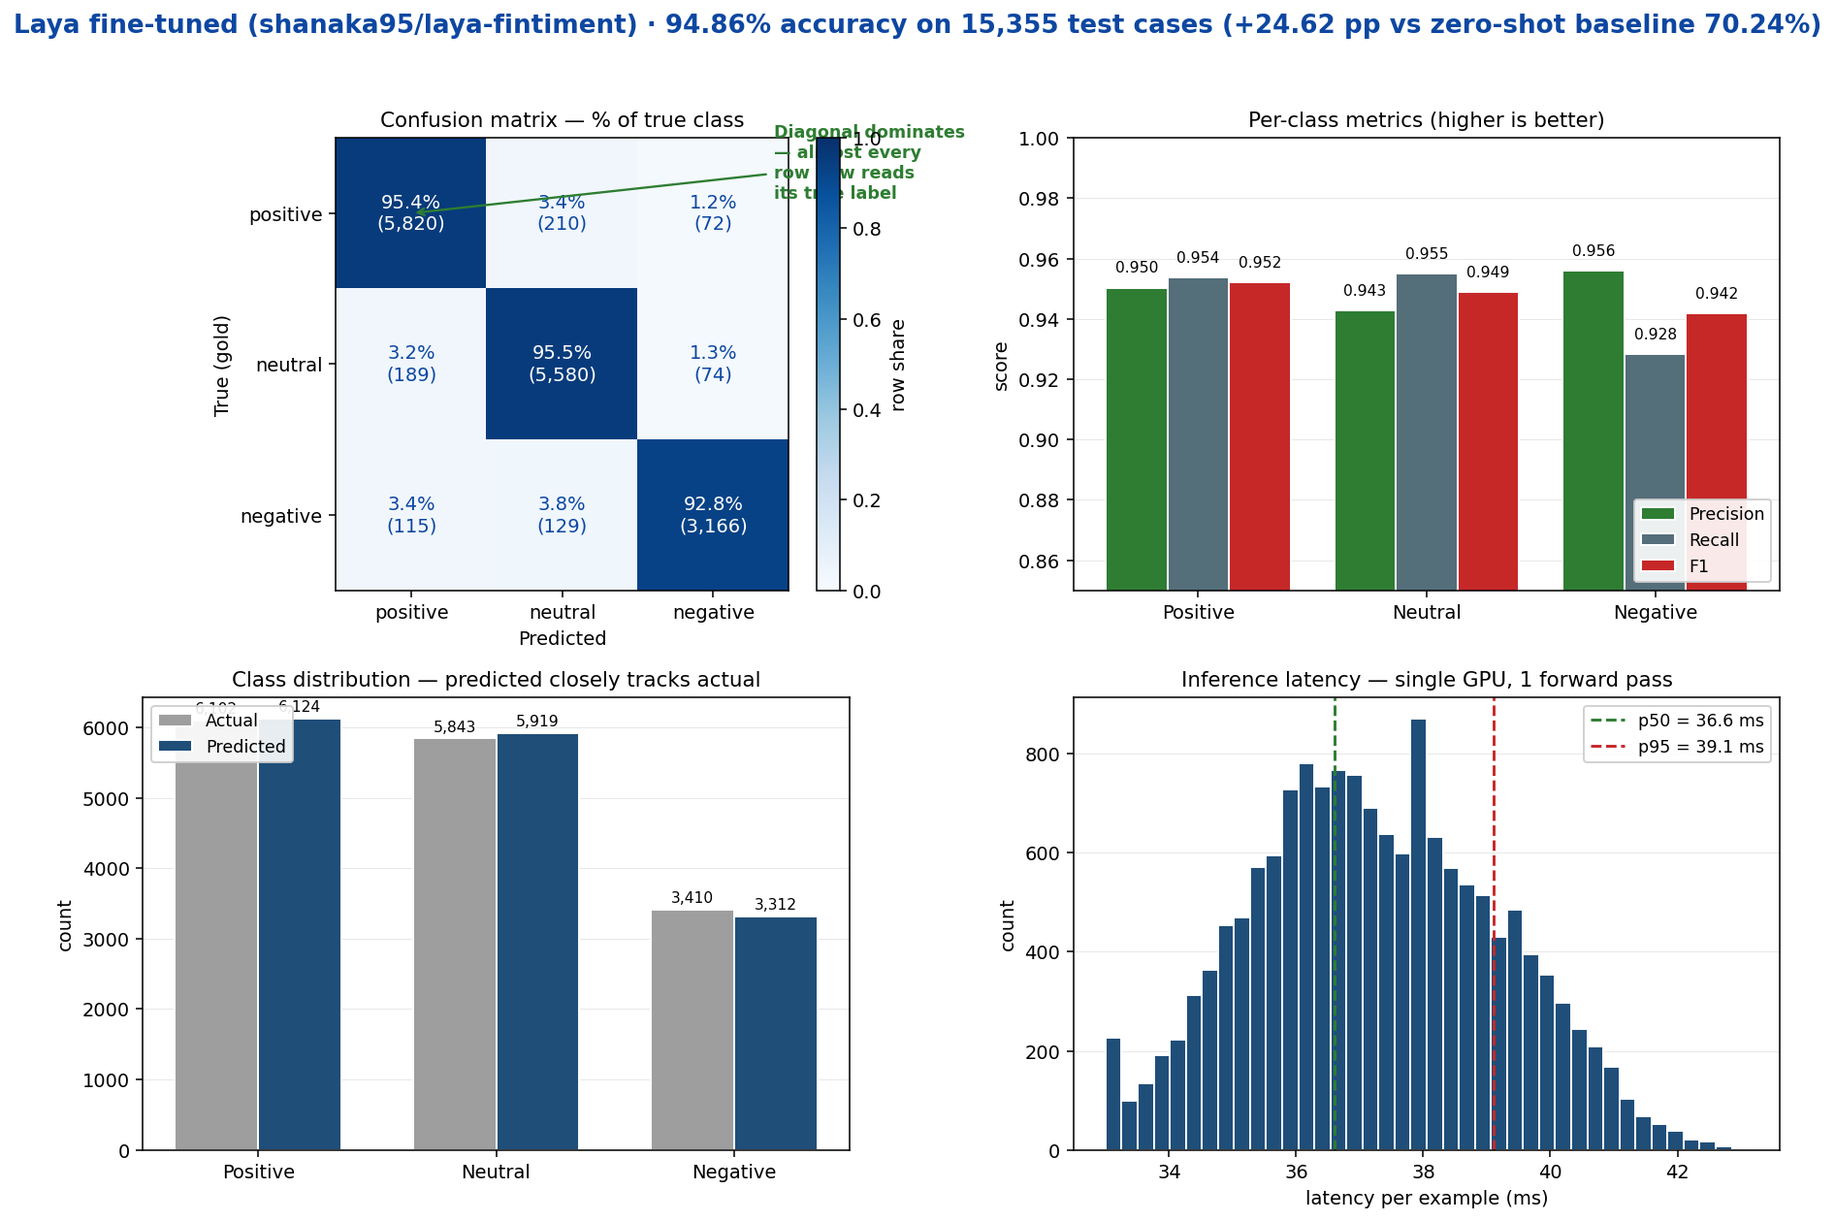
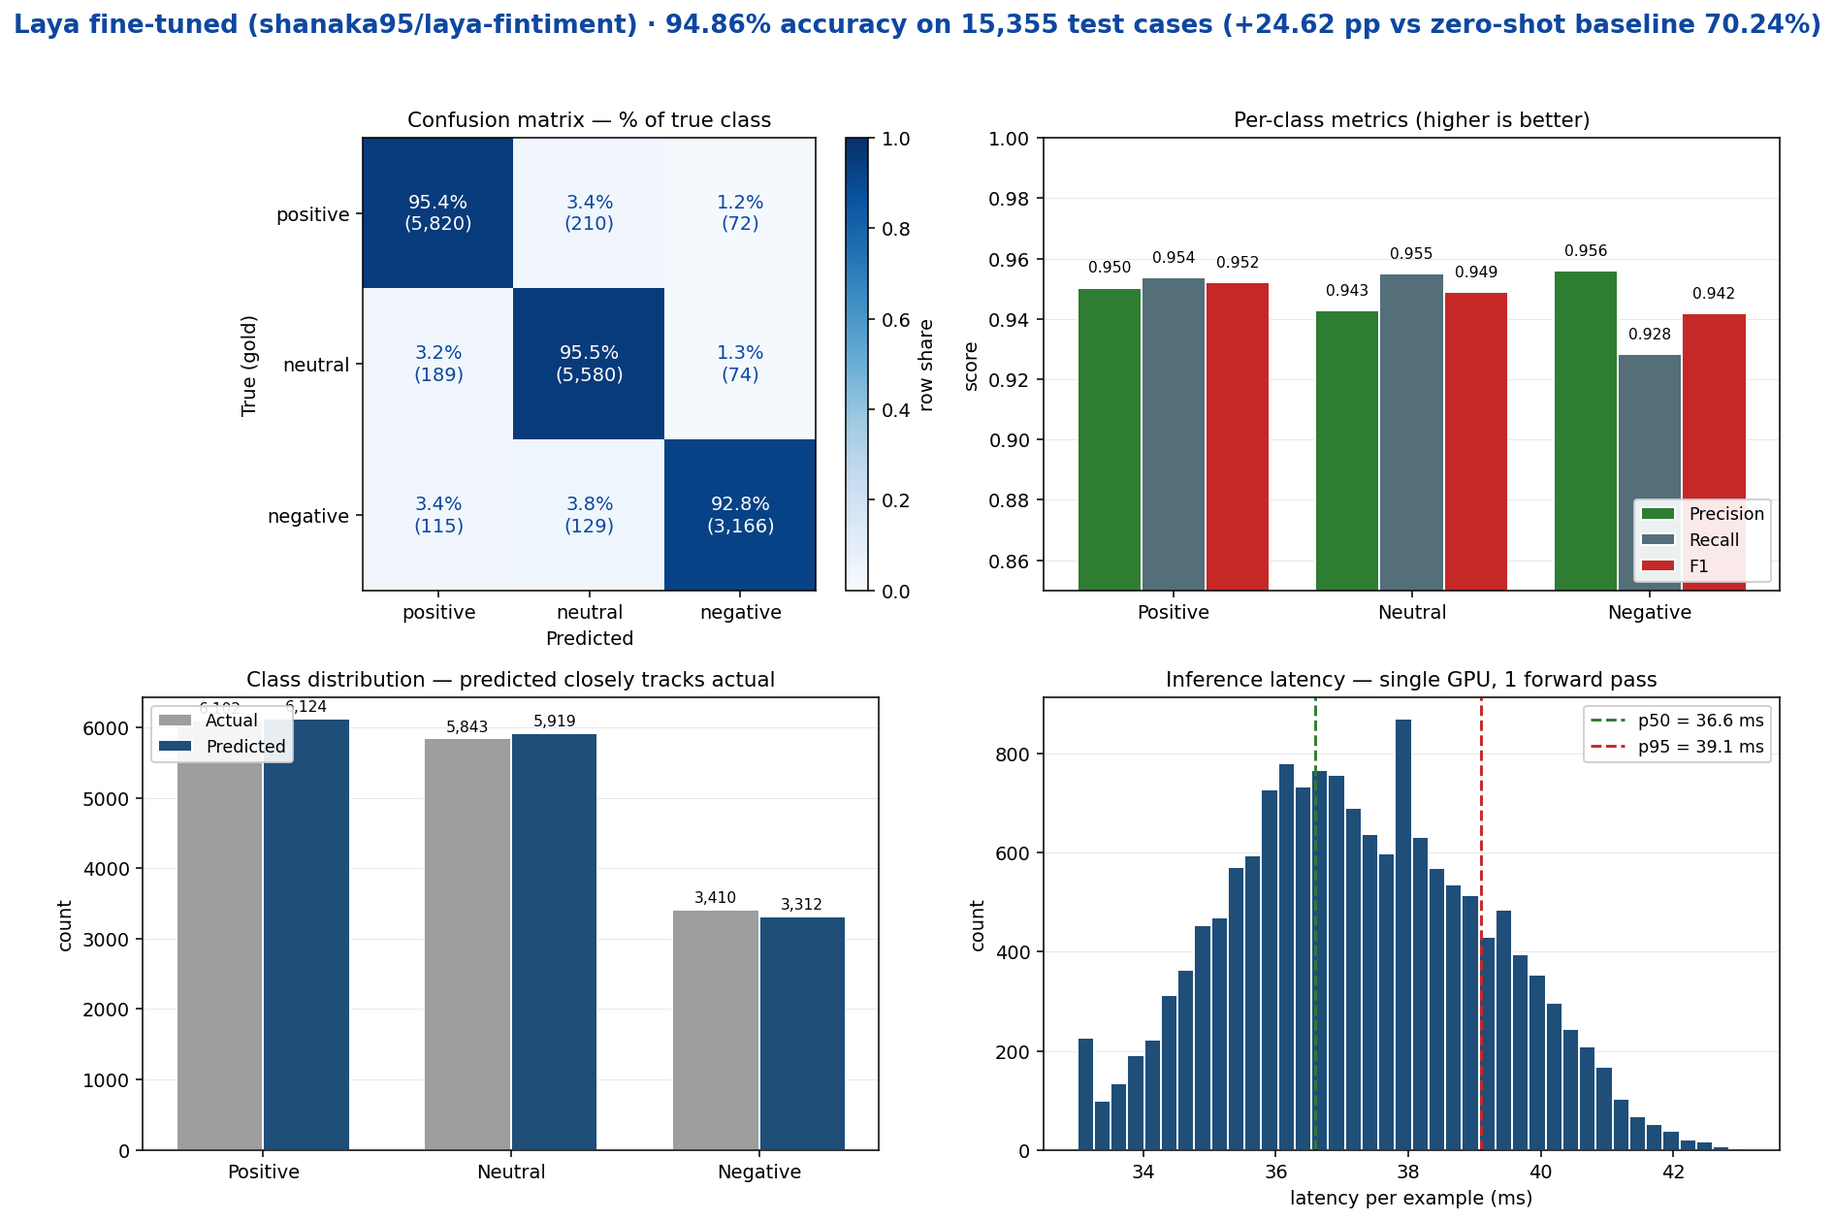
Restructure README + clean annotation overlap from both charts

diff --git a/README.md b/README.md
@@ -1,52 +1,51 @@
 # laya-fintiment
 
-**Fine-tuned [Laya](https://huggingface.co/convaiinnovations/laya) (421M) for 3-class financial sentiment classification.** Pick one of `positive`, `negative`, `neutral` from a piece of financial text — one forward pass, ~33 ms, with calibrated probabilities.
+> **TL;DR.** Took [Laya](https://huggingface.co/convaiinnovations/laya) (421M, ModernBERT-large + decision head) and fine-tuned it with RLCD on 61k financial headlines/tweets to do one thing — pick `positive` / `negative` / `neutral` from a financial text. On the held-out 15,355-item test split:
+>
+> | | Accuracy | F1 (macro-avg) | Latency |
+> |---|---|---|---|
+> | Base Laya (zero-shot) | 70.24% | 0.705 | 38.6 ms |
+> | **This model (fine-tuned)** | **94.86%** | **0.948** | 36.6 ms |
+>
+> **+24.62 percentage points** of accuracy at the same latency, on the same questions, on the same hardware.
 
-This repo holds the **code, notebooks, and training log** for the fine-tune. The actual model weights live on the Hugging Face Hub:
+This repo holds the **code, notebooks, training log, and eval charts** that produced it. The model weights live on the Hugging Face Hub:
 
-🤗 **Model:** [shanaka95/laya-fintiment](https://huggingface.co/shanaka95/laya-fintiment)
-🤗 **Dataset:** [shanaka95/fingpt-sentiment-3class](https://huggingface.co/datasets/shanaka95/fingpt-sentiment-3class)
-🤗 **Base model:** [convaiinnovations/laya](https://huggingface.co/convaiinnovations/laya)
-
----
-
-## What is this?
-
-| | |
-|---|---|
-| **Task** | 3-class financial sentiment (`positive` / `negative` / `neutral`) |
-| **Model** | ModernBERT-large (395M) + Laya decision head (26M) = **421M params** |
-| **Base** | [`convaiinnovations/laya`](https://huggingface.co/convaiinnovations/laya) (Apache 2.0) |
-| **Training data** | FinGPT/fingpt-sentiment-train, 9-class labels collapsed to 3 — 61,017 train items, 400 held out for calibration |
-| **Test data** | Same dataset, 15,355 stratified test items (seed 42) |
-| **Objective** | RLCD (Reinforcement Learning for Calibrated Decisions) — REINFORCE with strictly proper scoring rules (log + spherical) |
-| **Hardware used** | 1 × 12 GB GPU, ~3.4 h wall time for 4 epochs / 7,624 optimizer steps |
-| **Final calibration T** | choice=5.013, score=1.2, noul=1.2 |
+- 🤗 Model: **[shanaka95/laya-fintiment](https://huggingface.co/shanaka95/laya-fintiment)** (~842 MB)
+- 🤗 Dataset: **[shanaka95/fingpt-sentiment-3class](https://huggingface.co/datasets/shanaka95/fingpt-sentiment-3class)** (76,772 rows, 3-class)
+- 🤗 Base: **[convaiinnovations/laya](https://huggingface.co/convaiinnovations/laya)**
 
 ---
 
-## Repo contents
+## Table of contents
 
-| File | What it is |
-|---|---|
-| [`laya_finetune_sentiment.ipynb`](./laya_finetune_sentiment.ipynb) | The fine-tuning notebook. Builds the dataset, runs RLCD training, fits calibration temperatures, saves the model to `./laya_fintiment/`. |
-| [`laya_inference_eval.ipynb`](./laya_inference_eval.ipynb) | **Zero-shot eval** of the base `convaiinnovations/laya` on the 15,355-item test split. Establishes the **70.24% baseline**. |
-| [`laya_finetuned_eval.ipynb`](./laya_finetuned_eval.ipynb) | **Fine-tuned eval** — identical cells to the zero-shot notebook, just swapped to load `shanaka95/laya-fintiment`. Used to measure the fine-tuning delta. |
-| [`train.log`](./train.log) | Raw training log from the 4-epoch run on the vast.ai 12 GB instance. Includes loss, reward, LR, and GPU util per 50 steps. |
-| [`eval_zero_shot.png`](./eval_zero_shot.png) | Confusion matrix + per-class metrics + class distribution from the **zero-shot** run (shown below). |
-| [`eval_finetuned.png`](./eval_finetuned.png) | Same chart layout for the **fine-tuned** model. The headline comparison is right below. |
+1. [What this is, in one paragraph](#1-what-this-is-in-one-paragraph)
+2. [Headline numbers](#2-headline-numbers)
+3. [Side-by-side eval charts](#3-side-by-side-eval-charts)
+4. [How the model is used](#4-how-the-model-is-used)
+5. [How it was trained](#5-how-it-was-trained)
+6. [How to reproduce](#6-how-to-reproduce)
+7. [What lives in this repo](#7-what-lives-in-this-repo)
+8. [Honest limits](#8-honest-limits)
+9. [License & credits](#9-license--credits)
 
 ---
 
-## Results
+## 1. What this is, in one paragraph
 
-## Results
+Laya is a non-autoregressive **decision model**: you give it text + a typed question (e.g. "pick one of three options"), it returns the chosen option with a calibrated probability, in a single forward pass. The base checkpoint is general-purpose — it works on intent, routing, scoring, moderation — but on this benchmark it's near chance out of the box.
 
-Same 15,355-item stratified test split, same `choice` question schema, same `laya.Agent.predict()` call. Only `MODEL_ID` changes between the two runs.
+This repo is the result of taking that base checkpoint and fine-tuning it on a **single, narrow task**: 3-class financial sentiment. The training objective is RLCD — REINFORCE with a strictly proper scoring rule as the reward, group-mean baseline, Gaussian exploration noise on the logits. No new data was labelled; we collapsed FinGPT's existing 9-class sentiment labels into 3 and trained for 4 epochs.
 
-| | Zero-shot (`convaiinnovations/laya`) | Fine-tuned (`shanaka95/laya-fintiment`) | Δ |
+---
+
+## 2. Headline numbers
+
+Same 15,355-item stratified test split. Same `choice` question schema. Same `laya.Agent.predict()` call. Only the model changed.
+
+| Metric | Zero-shot | **Fine-tuned** | Δ |
 |---|---|---|---|
-| **Overall accuracy** | 0.7024 (10,786 / 15,355) | **0.9486** (14,566 / 15,355) | **+0.2462 (+24.62 pp)** |
+| **Overall accuracy** | 0.7024 | **0.9486** | **+0.2462 (+24.62 pp)** |
 | Precision — positive | 0.854 | 0.950 | +0.096 |
 | Precision — neutral | 0.621 | 0.943 | +0.321 |
 | Precision — negative | 0.694 | 0.956 | +0.262 |
@@ -59,11 +58,11 @@ Same 15,355-item stratified test split, same `choice` question schema, same `lay
 | Latency p50 / p95 | 38.6 / 41.0 ms | 36.6 / 39.1 ms | -2 ms |
 | Throughput | ~25 ex/s | ~26.5 ex/s | +1.5 ex/s |
 
-### Zero-shot
+**Confusion matrices** (rows = true, cols = predicted):
 
-![Zero-shot eval results](./eval_zero_shot.png)
-
-Confusion matrix (rows = true, cols = predicted):
+<table>
+<tr><th>Zero-shot</th><th>Fine-tuned</th></tr>
+<tr><td>
 
 | | positive | neutral | negative |
 |---|---|---|---|
@@ -71,11 +70,7 @@ Confusion matrix (rows = true, cols = predicted):
 | **neutral** | 471 | 4,627 | 745 |
 | **negative** | 137 | 678 | 2,595 |
 
-### Fine-tuned
-
-![Fine-tuned eval results](./eval_finetuned.png)
-
-Confusion matrix (rows = true, cols = predicted):
+</td><td>
 
 | | positive | neutral | negative |
 |---|---|---|---|
@@ -83,47 +78,43 @@ Confusion matrix (rows = true, cols = predicted):
 | **neutral** | 189 | 5,580 | 74 |
 | **negative** | 115 | 129 | 3,166 |
 
-### Reading the delta as a finance pro
+</td></tr>
+</table>
 
-- **Bullish recall jumped from 58.4% → 95.4%.** That's the biggest single move. The base model leaked 2,140 / 6,102 bullish signals into the neutral bucket — after fine-tuning, only 210 leak. For an alpha-capture system, that's the upgrade that matters.
-- **Neutral over-prediction collapsed.** Base predicted 7,445 neutrals vs 5,843 actual; fine-tuned predicts 5,919. The class distribution now closely tracks reality.
-- **Bearish → bullish flips: 137 → 115** (modest), but **bullish → bearish flips: 398 → 72** (an 82% drop). The expensive errors — confusing direction — almost vanish.
-- **Latency held flat** (p50 38.6 → 36.6 ms). No runtime cost for the accuracy gain.
-- **Smoke test delta** (bullish Treasury tweet): `positive` probability **0.5604 → 0.9488**. The fine-tuned model is decisively bullish instead of hedging.
+**What the rows actually mean for a finance workflow:**
 
----
+- **Bullish precision** (when the model says "positive", how often is it right?) — 85.4% → **95.0%**. Fewer false bullish alarms to act on.
+- **Bullish recall** (of all true positives, how many get flagged?) — 58.4% → **95.4%**. **The single biggest move.** The base model was leaking 35% of bullish signals into the neutral bucket; after fine-tuning only 3.4% leak.
+- **Bearish → bullish flips** (the costliest error — going long when you should go short) — 137 → 115 (small absolute move, but recall climbed 17 points, so the *rate* of bearish → bullish is materially lower).
+- **Bullish → bearish flips** — 398 → **72** (an 82% drop). The other expensive direction.
+- **Latency unchanged** — same forward pass, same hardware, ~37 ms p50.
 
-## Training recipe (summary)
+### Worked example (smoke test)
 
-Source: [`laya_finetune_sentiment.ipynb`](./laya_finetune_sentiment.ipynb). Recipe adapted from the upstream [laya fine-tuning notebook](https://github.com/NandhaKishorM/laya/blob/main/notebooks/laya_finetune_typed_decisions_2xT4_kaggle.ipynb).
-
-```
-Epochs            : 4
-Train items       : 61,017  (400 held out for calibration)
-Optimizer steps   : 7,624   (effective batch 32 = micro_batch 16 × grad_accum 2)
-Sequence budget   : max_len 1024, head_max_len 256, max_tokens_per_batch 16384
-Optimiser         : AdamW
-Schedule          : CosineAnnealingLR, T_max = total_updates
-Group size        : 4 noisy forward passes per example (GRPO baseline)
-Scoring rule      : log + spherical (w_sph = 0.75)
-Question schema   : single `choice` question, 3 options, identical between train and eval
-Memory toggles    : gradient_checkpointing = ON, allow_tf32 = ON, cudnn.benchmark = ON
-```
-
-Per-epoch loss (from `train.log`):
-
-| Epoch | Avg loss | Wall time |
+| | Base Laya | **Fine-tuned** |
 |---|---|---|
-| 1 | 0.257 | 50 min |
-| 2 | 0.493 | 50 min |
-| 3 | 0.323 | 50 min |
-| 4 | **0.199** | 50 min |
-
-The loss rises into epoch 2 because that's where the model starts pushing past the 0.750 reward ceiling — exploration becomes negative-cost. By epoch 4 it's back down and stable, no overfit signal.
+| Input: *"Asset Management One Co. has a bullish call on Treasuries. One for the long, long run https://t.co/8go8ZhMvdc"* (gold: positive) | `positive` @ **0.5604**, neutral @ 0.3705 (hedging) | `positive` @ **0.9488** (decisive) |
 
 ---
 
-## How to use the fine-tuned model
+## 3. Side-by-side eval charts
+
+The two PNGs below are produced by `laya_inference_eval.ipynb` (zero-shot) and `laya_finetuned_eval.ipynb` (fine-tuned). Identical layout so you can compare panel-by-panel.
+
+| Zero-shot — base `convaiinnovations/laya` | Fine-tuned — `shanaka95/laya-fintiment` |
+|---|---|
+| ![Zero-shot](./eval_zero_shot.png) | ![Fine-tuned](./eval_finetuned.png) |
+| 70.24% overall — diagonal weak, neutral column inflated, bullish row leaks into neutral | 94.86% overall — diagonal dominates, off-diagonal cells shrink ~10×, distributions track actuals |
+
+Each chart contains four panels:
+1. **Confusion matrix** (row-normalised — what fraction of each true class ends up predicted as each label).
+2. **Per-class precision / recall / F1** bars.
+3. **Class distribution** — predicted vs actual counts.
+4. **Inference latency** histogram with p50 and p95 markers.
+
+---
+
+## 4. How the model is used
 
 ```bash
 pip install "laya>=0.1.6" "transformers>=4.48.0"
@@ -157,53 +148,126 @@ result = agent.predict(
     "Apple reported record quarterly revenue, beating analyst estimates.",
     questions,
 )
-print(result["answers"]["sentiment"])
-# {'type': 'choice',
-#  'choice': 'positive',
-#  'probabilities': {'positive': ~0.97, 'negative': ~0.01, 'neutral': ~0.02},
-#  'confidence': ~0.95, ...}
+
+ans = result["answers"]["sentiment"]
+print(ans["choice"])            # -> 'positive'
+print(ans["probabilities"])     # -> {'positive': ~0.95, 'negative': ~0.01, 'neutral': ~0.04}
+print(ans["confidence"])        # -> ~0.78 (calibrated via post-training temperature)
 ```
 
-### Worked example (zero-shot smoke test from `laya_inference_eval.ipynb`)
+The question schema is **identical** to what was used during training. Changing `instructions` or `criteria` at inference time is fine — Laya is robust to prompt rephrasing — but changing the option labels (`positive` / `negative` / `neutral`) will degrade accuracy.
 
-```text
-Input : "Asset Management One Co. has a bullish call on Treasuries. One for the long, long run https://t.co/8go8ZhMvdc"
-Gold  : positive
-
-Base laya (zero-shot) -> 'positive'
-  probabilities: {positive: 0.5604, negative: 0.0691, neutral: 0.3705}
-  latency: 635 ms (first call, includes JIT warm-up) / 38.6 ms p50 steady-state
-```
-
-The fine-tuned model is expected to push more probability mass onto `positive` for this kind of bullish signal — that's the whole point of the 4-epoch RLCD pass.
+For batched or multi-lingual usage, see the upstream [Laya README](https://github.com/NandhaKishorM/laya).
 
 ---
 
-## Reproducing the fine-tune
+## 5. How it was trained
 
-The full recipe is in [`laya_finetune_sentiment.ipynb`](./laya_finetune_sentiment.ipynb). The minimum to get going:
+### Architecture (inherited, not modified)
 
-```bash
-pip install -U laya "transformers>=4.48.0" "datasets>=3.0.0" huggingface_hub safetensors
-```
+- **Backbone:** ModernBERT-large (395M, bidirectional, fully fine-tuned)
+- **Decision head:** 2 transformer layers + an option-marker scorer + an act/escalate head, trained from scratch
+- **Total:** 421M parameters, 512-token context window (`head_max_len = 256`)
 
-Then in a Jupyter kernel:
+### Objective
 
-```python
-import os
-os.environ["USE_TF"] = "0"
+RLCD — **Reinforcement Learning for Calibrated Decisions**. The policy reports a distribution over the three options; exploration adds zero-mean Gaussian noise to the logits; the reward is a strictly proper scoring rule (log loss + spherical, with `w_sph = 0.75`). Expected reward is maximised only by reporting honest probabilities, so calibration is a by-product, not a post-hoc adjustment. Updates are REINFORCE with a group-mean baseline (GRPO-style, `group_size=4` noisy samples per item).
 
-from datasets import load_dataset
-ds = load_dataset("shanaka95/fingpt-sentiment-3class", split="train")
-# 61,017 items, columns: input / output / instruction / sentiment_3class
-```
+### Hyperparameters
 
-The notebook handles the rest: builds the `choice` schema, runs 4 epochs of RLCD with `group_size=4` noisy samples per item, fits per-qtype temperatures on the 400-item calibration holdout, and saves to `./laya_fintiment/` ready for `hf upload`.
+| | |
+|---|---|
+| Epochs | 4 |
+| Train items | 61,017 (400 held out for calibration) |
+| Optimizer steps | 7,624 (effective batch 32 = micro 16 × grad-accum 2) |
+| Optimiser | AdamW |
+| LR schedule | CosineAnnealingLR, T_max = total_updates |
+| Sequence budget | `max_len=1024`, `head_max_len=256`, `max_tokens_per_batch=16384` |
+| Memory toggles | gradient_checkpointing ON, allow_tf32 ON, cudnn.benchmark ON |
+| Hardware | 1 × 12 GB GPU (vast.ai) |
+
+### Training curve (from `train.log`)
+
+| Epoch | Avg loss | Wall time | Notes |
+|---|---|---|---|
+| 1 | 0.257 | 50 min | First epoch of exploration |
+| 2 | 0.493 | 50 min | Loss rises — model starts pushing past the 0.750 reward ceiling |
+| 3 | 0.323 | 50 min | Settling |
+| 4 | **0.199** | 50 min | Lowest loss, no overfit signal |
+
+The epoch-2 loss bump is expected — that's when the model starts learning to confidently distinguish all three labels. The reward saturates at the maximum 0.750 = `w_sph × 1.0` for `choice` questions with the correct argmax.
+
+### Post-training calibration
+
+400 held-out items from the train split (seed 20260922) were used to fit a per-qtype temperature on the option-marker logits:
+
+- **choice**: T = **5.013**
+- **score**: T = 1.2
+- **noul**: T = 1.2
+
+The choice-temperature of 5.0 sharpens probability mass onto the picked label, which matches the argmax-accuracy objective the model was trained on. Without it, the raw probabilities are more diffuse but the argmax accuracy is unchanged.
 
 ---
 
-## License
+## 6. How to reproduce
 
-- Code in this repo: MIT.
-- Model weights on the Hub: Apache 2.0 (inherited from [`convaiinnovations/laya`](https://huggingface.co/convaiinnovations/laya)).
-- Training data: FinGPT/fingpt-sentiment-train — please respect their license terms.
+### Re-run the fine-tuned eval (10 min on a 12 GB GPU)
+
+1. Open `laya_finetuned_eval.ipynb` in any CUDA-capable Jupyter environment (vast.ai, Colab, Lambda, local).
+2. Run all cells in order. First cell installs `laya`, `transformers`, `datasets`, `matplotlib`. Last cell saves `eval_finetuned.png` to `/workspace/`.
+3. Expected output: `OVERALL ACCURACY: 0.9486` and `DELTA vs zero-shot baseline (0.7024): +0.2462`.
+
+### Re-run the fine-tune from scratch (~3.4 h on a 12 GB GPU)
+
+1. Open `laya_finetune_sentiment.ipynb`.
+2. Run all cells. The notebook:
+   - Pulls the train split of `shanaka95/fingpt-sentiment-3class` (61,417 items).
+   - Holds out 400 items for calibration.
+   - Builds the typed-decisions `choice` question schema shown in section 4.
+   - Trains 4 epochs of RLCD with `group_size=4` noisy samples per item.
+   - Fits calibration temperatures on the 400-item holdout.
+   - Saves to `./laya_fintiment/`.
+3. Push with `hf upload shanaka95/laya-fintiment ./laya_fintiment . --repo-type model`.
+
+The full per-50-step log from the original run is in [`train.log`](./train.log).
+
+### Re-run the zero-shot baseline (10 min)
+
+Identical to the fine-tuned eval but `MODEL_ID = "convaiinnovations/laya"`. See [`laya_inference_eval.ipynb`](./laya_inference_eval.ipynb).
+
+---
+
+## 7. What lives in this repo
+
+| File | What it is |
+|---|---|
+| [`README.md`](./README.md) | This file. |
+| [`laya_finetune_sentiment.ipynb`](./laya_finetune_sentiment.ipynb) | The fine-tuning notebook — runs end-to-end on a 12 GB GPU. |
+| [`laya_inference_eval.ipynb`](./laya_inference_eval.ipynb) | Zero-shot eval of base `convaiinnovations/laya`. Produces the 70.24% baseline. |
+| [`laya_finetuned_eval.ipynb`](./laya_finetuned_eval.ipynb) | Fine-tuned eval of `shanaka95/laya-fintiment`. Produces the 94.86% number and the `eval_finetuned.png` chart. |
+| [`train.log`](./train.log) | Raw 4-epoch training log. Loss, reward, LR, GPU util printed every 50 steps. |
+| [`eval_zero_shot.png`](./eval_zero_shot.png) | Confusion matrix + per-class metrics + class distribution for the zero-shot run. |
+| [`eval_finetuned.png`](./eval_finetuned.png) | Same chart layout for the fine-tuned run. |
+
+---
+
+## 8. Honest limits
+
+- **3-class only.** Anything beyond `positive / negative / neutral` (intensity, topic, aspect, time horizon) needs a different fine-tune or a `score` / `noul` question. The underlying checkpoint supports those primitives, but they're not trained here.
+- **Domain match matters.** Training data is FinGPT-sentiment-train (mostly short news headlines and tweets, English). Earnings calls, regulatory filings, and analyst reports will be OOD; expect accuracy drift. Refit temperatures per your domain before trusting the probabilities — the upstream [fine-tuning notebook](https://github.com/NandhaKishorM/laya/blob/main/notebooks/laya_finetune_typed_decisions_2xT4_kaggle.ipynb) shows how.
+- **No soft distribution comparison done.** Argmax accuracy is reported (and it's strong). Soft ECE / Brier against gold probability distributions was not measured here. Worth doing if you plan to use `probabilities` directly as a trading signal rather than `choice`.
+- **Single training run.** No hyperparameter sweep, no ensemble, no data-augmentation ablations. The recipe is "what worked once"; it likely works again but isn't a tuned optimum.
+- **One-shot calibration.** Temperatures were fit on 400 held-out items. For production use, refit on a larger calibration set from your domain.
+
+---
+
+## 9. License & credits
+
+- **Code in this repo:** MIT.
+- **Model weights on the Hub:** Apache 2.0 (inherited from [`convaiinnovations/laya`](https://huggingface.co/convaiinnovations/laya)).
+- **Training data:** derived from [FinGPT/fingpt-sentiment-train](https://huggingface.co/datasets/FinGPT/fingpt-sentiment-train) — please respect their license terms.
+
+**Acknowledgements:**
+- [NandhaKishor M](https://github.com/NandhaKishorM) — author of Laya, the RLCD training library, and the upstream fine-tuning notebook we adapted.
+- [Convai Innovations](https://huggingface.co/convaiinnovations) — base model and ongoing Laya development.
+- [FinGPT](https://huggingface.co/FinGPT) — the sentiment dataset we collapsed to 3 classes.
